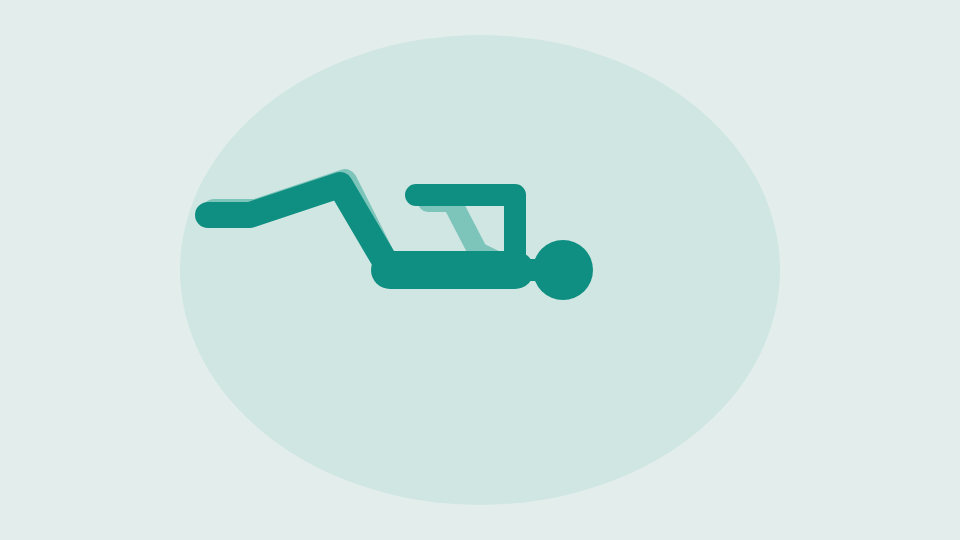
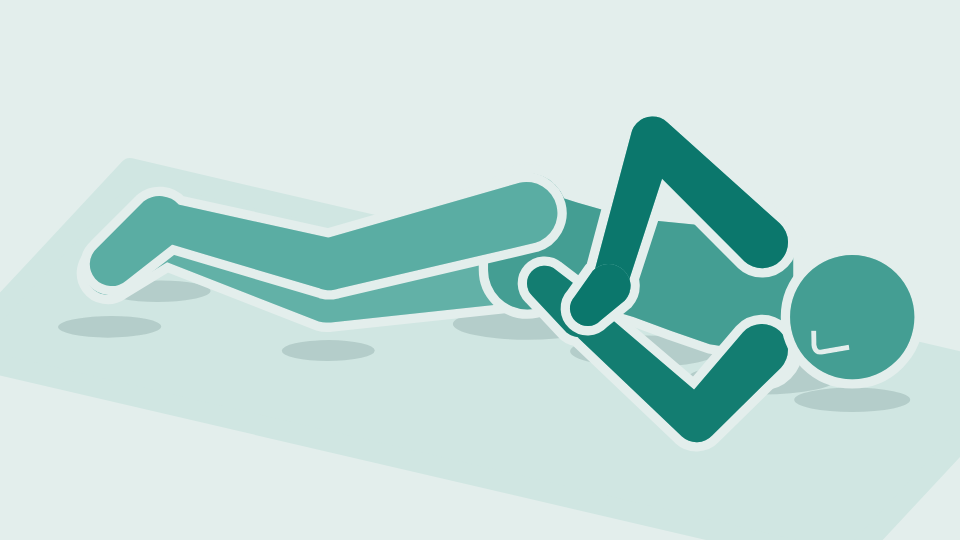
feat: add Sleeper Stretch exercise with 3D animation and update related components

Changed region(s): [[0.0625, 0.2074, 0.9688, 0.8296], [0.2812, 0.6222, 0.4062, 0.6815]]

diff --git a/src/data/exercise-animations-3d.ts b/src/data/exercise-animations-3d.ts
@@ -6136,3 +6136,76 @@ export const SIDE_LYING_EXTERNAL_ROTATION_3D: Clip3D = {
     { ms: 1800, pose: SIDE_ER_IN },
   ],
 };
+
+// --- Sleeper stretch: lying on the left side, the bottom arm out in front at shoulder height with the elbow at 90° and the forearm up, the top hand presses the forearm down toward the floor ---
+
+/** How far the top hand presses the bottom forearm down from pointing at the ceiling, toward the feet. */
+const SLEEPER_PRESS = 55;
+/** How far along the bottom forearm from the elbow the top hand presses: at the wrist. */
+const SLEEPER_ALONG = 1;
+/** How far the middle of the top hand is from the middle of the bottom forearm: the forearm's half thickness and the hand's. */
+const SLEEPER_HAND_OFF = 15;
+/** How far from the wrist the middle of the hand is. */
+const SLEEPER_HAND_MIDDLE = 13;
+
+const sleeperBody = (press: number): Pose3 => ({
+  pelvis: [0, BOOK_SPINE_Y, 0],
+  tilt: -90,
+  // The bottom arm lies on the floor straight out in front at shoulder height, the forearm up at
+  // the ceiling to start and pressed down toward the feet, turning around the upper arm.
+  leftArm: { flex: 90, elbow: 90, rotate: -90 - press },
+  // Knees bent a little and stacked, the top one resting on the bottom one.
+  rightLeg: { flex: 40, knee: 50, abduct: -8 },
+  leftLeg: { flex: 40, knee: 50 },
+});
+
+/**
+ * The bottom forearm pressed this far (0 to 1) down toward the feet by the top hand. The hand lies
+ * across the forearm near the wrist, on the side toward the head, palm against it and fingers
+ * pointing away from the body, and goes round with it.
+ */
+const sleeperAt = (t: number): Pose3 => {
+  const body = sleeperBody(SLEEPER_PRESS * t);
+  const [, elbow, wrist] = solvePose(body).leftArm;
+  const forearm = unit3(sub3(wrist, elbow));
+  // Square to the forearm, in the way it turns: toward the feet as it's pressed down.
+  const pushing = unit3(cross3([1, 0, 0], forearm));
+  const contact = along3(along3(elbow, forearm, SLEEPER_ALONG * SKELETON.forearm), pushing, -SLEEPER_HAND_OFF);
+  return {
+    ...body,
+    pins: { rightHand: { at: along3(contact, [-1, 0, 0], SLEEPER_HAND_MIDDLE), toward: [1, 0, 0], pole: [-0.3, 1, 0.5] } },
+  };
+};
+const SLEEPER_UP = sleeperAt(0);
+const SLEEPER_PRESSED = sleeperAt(1);
+/**
+ * The pressing hand goes round with the forearm, so the press takes this many steps rather than one
+ * straight move. Each step goes at an even speed, so it takes this many for the press to ease in and
+ * out smoothly: with 8, the top arm jerked from one speed to the next at each step.
+ */
+const SLEEPER_STEPS = 24;
+
+export const SLEEPER_STRETCH_3D: Clip3D = {
+  view: '3d',
+  // From in front and a little toward the head, above: the forearm turns around the upper arm, which
+  // points out in front of the body, so from in front its swing from the ceiling down toward the feet
+  // is across the screen, and from a little toward the head the upper arm shows its length too,
+  // coming out from the shoulder. Straight from the front it pointed at the camera and was lost, and
+  // the arm looked like a stick standing on the floor.
+  camera: { yaw: 115, pitch: 30 },
+  highlight: ['leftArm'],
+  // The top hand stays on the bottom wrist.
+  holds: [{ hand: 'rightHand', limb: 'leftArm' }],
+  // The bottom forearm stands out in front, nearer the camera than the top arm reaching to it, but
+  // the two are near the same depth and swapped partway through the press.
+  behind: [['rightArm', 'leftArm']],
+  // Pressed down.
+  stillFrame: 1 + SLEEPER_STEPS,
+  keyframes: [
+    { ms: 0, pose: SLEEPER_UP },
+    { ms: 600, pose: SLEEPER_UP },
+    ...alongArc(1800, SLEEPER_STEPS, sleeperAt),
+    { ms: 3500, pose: SLEEPER_PRESSED },
+    ...alongArc(1800, SLEEPER_STEPS, (t) => sleeperAt(1 - t)),
+  ],
+};

diff --git a/src/lib/rig3d.test.ts b/src/lib/rig3d.test.ts
@@ -44,6 +44,7 @@ import {
   SHOULDER_EXTERNAL_ROTATION_3D,
   SHOULDER_PASS_THROUGHS_3D,
   SIDE_LYING_EXTERNAL_ROTATION_3D,
+  SLEEPER_STRETCH_3D,
   SIT_AND_REACH_3D,
   SQUAT_TO_STAND_3D,
   STRAIGHT_LEG_RAISE_3D,
@@ -1789,6 +1790,40 @@ describe('3D clips', () => {
       const nearest = Math.min(...[start.rightArm, start.leftArm].map((arm) => Math.hypot(x - hand(arm)[0], y - hand(arm)[1])));
       expect(nearest).toBeGreaterThan(10);
     }
+  });
+
+  it('presses the bottom forearm down from the ceiling toward the feet with the top hand, the arm out in front at shoulder height and the elbow at 90°, in the sleeper stretch', () => {
+    const clip = SLEEPER_STRETCH_3D;
+    const skeletons = samples(clip).map(solvePose);
+    const start = skeletons[0];
+    for (const s of skeletons) {
+      // Only the arms move: the body and legs stay put, and the bottom upper arm lies still on the
+      // floor straight out in front at shoulder height, the elbow at 90°.
+      expect(distance(s.spine[0], start.spine[0])).toBeCloseTo(0);
+      expect(distance(s.head, start.head)).toBeCloseTo(0);
+      for (const [now, first] of [[s.rightLeg[2], start.rightLeg[2]], [s.leftLeg[2], start.leftLeg[2]], [s.leftArm[1], start.leftArm[1]]] as const) {
+        expect(distance(now, first)).toBeCloseTo(0);
+      }
+      const [shoulder, elbow, wrist, hand] = s.leftArm;
+      expect(elbow[1]).toBeCloseTo(shoulder[1]);
+      expect(elbow[0] - shoulder[0]).toBeCloseTo(SKELETON.upperArm, 0);
+      expect(angleAt(shoulder, elbow, wrist)).toBeCloseTo(90, 0);
+      // The top hand stays on the bottom wrist, pressing from the head's side, and never goes into it.
+      const top = s.rightArm;
+      const middle: Vec3 = [(top[2][0] + top[3][0]) / 2, (top[2][1] + top[3][1]) / 2, (top[2][2] + top[3][2]) / 2];
+      expect(distance(middle, wrist)).toBeLessThan(20);
+      expect(distanceToSegment(middle, elbow, hand)).toBeGreaterThan(12);
+      expect(middle[2]).toBeLessThan(wrist[2]);
+    }
+    // To start the forearm points at the ceiling, and pressed it's well down toward the feet.
+    const fromUp = (s: Skeleton) => angleAt([s.leftArm[1][0], s.leftArm[1][1] + 1, s.leftArm[1][2]], s.leftArm[1], s.leftArm[2]);
+    expect(fromUp(start)).toBeLessThan(1);
+    const pressed = solvePose(clip.keyframes[clip.stillFrame!].pose);
+    expect(fromUp(pressed)).toBeGreaterThan(45);
+    expect(pressed.leftArm[2][2]).toBeGreaterThan(pressed.leftArm[1][2] + 40);
+    expect(pressed.leftArm[2][1]).toBeGreaterThan(pressed.leftArm[1][1]);
+    // The bottom arm stays in front of the top one reaching to it, its hand drawn over it.
+    expect(new Set(drawOrders(clip)).size).toBe(1);
   });
 
   it('turns the top forearm up from the belly toward the ceiling, the elbow tucked against the side at 90°, in side-lying external rotation', () => {

diff --git a/src/data/exercises.ts b/src/data/exercises.ts
@@ -68,6 +68,7 @@ import {
   SEATED_STRADDLE_SIDE_BEND_3D,
   SHOULDER_PASS_THROUGHS_3D,
   SIDE_LYING_EXTERNAL_ROTATION_3D,
+  SLEEPER_STRETCH_3D,
   SQUAT_TO_STAND_3D,
   STANDING_FORWARD_FOLD_3D,
   THREE_LEGGED_DOWNWARD_FACING_DOG_3D,
@@ -75,7 +76,6 @@ import {
 } from './exercise-animations-3d';
 
 import {
-  SLEEPER_STRETCH,
   THE_SAGITTARIUS,
   THREAD_THE_NEEDLE,
   WINDSHIELD_WIPERS_WITH_KNEE_LIFT,
@@ -667,7 +667,7 @@ const ALL_EXERCISES: Exercise[] = [
       'Hold without forcing it, then switch sides',
     ],
     photo: require('@/assets/images/exercises/sleeper-stretch.png'),
-    animation: SLEEPER_STRETCH,
+    animation: SLEEPER_STRETCH_3D,
     twoSided: true,
   },
   {

diff --git a/README.md b/README.md
@@ -209,16 +209,16 @@ Moved to the new engine:
 | Seated hip internal rotation | Library | `SEATED_HIP_INTERNAL_ROTATION_3D` |
 | Shoulder pass-throughs | Library | `SHOULDER_PASS_THROUGHS_3D` |
 | Side-lying external rotation | Library | `SIDE_LYING_EXTERNAL_ROTATION_3D` |
+| Sleeper stretch | Library | `SLEEPER_STRETCH_3D` |
 
 Still on the old engine (clip names in `exercise-animations.ts`). Where a clip needs something the new engine doesn't have yet, it's noted.
 
-All ten flexibility tests are on the new engine. The last six to move (knee to wall, the two seated hip rotations, sit and reach, knee to chest and straight leg raise) haven't been checked on a device yet, so their old clips are still in `exercise-animations.ts`; delete them once they have. The same goes for the three 90 to 90 clips in the library (`NINETY_TO_NINETY_ROTATIONS` has to stay either way: windshield wipers with knee lift is built on it), and for the two pancake clips (`PANCAKE_UP` has to stay either way: the seated straddle side bend is built on it), and for the active straight leg raise, ankle mobilization, the behind the back chest opener, back lying reverse pigeon, belly down foot splay, the five squats (bottom squat, bottom squat rotation, squat to stand, Cossack squat and resting Cossack squat), Blackburn, butterfly, cobra to prayer, downward facing dog, prayer pose, puppy pose, lying knee hug, lying hamstring stretch, seated pike stretch, three legged downward facing dog, standing forward fold, kneeling wrist stretch, floor angels, reverse tabletop, knight stretch, horse stance, the lying windshield wiper hold, frog stretch, frog rocks, knight to hamstring, couch stretch, pyramid stretch, wrist rocks, elephant walk, the seated straddle side bend, seated shoulder extension, the half kneeling frog stretch, the neck side stretch, the cross-body shoulder stretch, the overhead triceps stretch, cow face arms, the pigeon stretch, hip circles, the Breakdancer, scap mobilization, the lizard pose, the figure four stretch, the two manual forearm stretches, downward facing dog to cobra, Cuban rotation, the half spinal twist, the half-twisted lizard, open book, inchworm, the pec stretch on the ground, reverse clamshells, reverse scorpion, seated hip internal rotation, shoulder pass-throughs, side-lying external rotation and finger tendon glides (`FINGER_TENDON_GLIDES` is still checked by `figure-rig.test.ts` and `exercise-video.test.tsx` until then).
+All ten flexibility tests are on the new engine. The last six to move (knee to wall, the two seated hip rotations, sit and reach, knee to chest and straight leg raise) haven't been checked on a device yet, so their old clips are still in `exercise-animations.ts`; delete them once they have. The same goes for the three 90 to 90 clips in the library (`NINETY_TO_NINETY_ROTATIONS` has to stay either way: windshield wipers with knee lift is built on it), and for the two pancake clips (`PANCAKE_UP` has to stay either way: the seated straddle side bend is built on it), and for the active straight leg raise, ankle mobilization, the behind the back chest opener, back lying reverse pigeon, belly down foot splay, the five squats (bottom squat, bottom squat rotation, squat to stand, Cossack squat and resting Cossack squat), Blackburn, butterfly, cobra to prayer, downward facing dog, prayer pose, puppy pose, lying knee hug, lying hamstring stretch, seated pike stretch, three legged downward facing dog, standing forward fold, kneeling wrist stretch, floor angels, reverse tabletop, knight stretch, horse stance, the lying windshield wiper hold, frog stretch, frog rocks, knight to hamstring, couch stretch, pyramid stretch, wrist rocks, elephant walk, the seated straddle side bend, seated shoulder extension, the half kneeling frog stretch, the neck side stretch, the cross-body shoulder stretch, the overhead triceps stretch, cow face arms, the pigeon stretch, hip circles, the Breakdancer, scap mobilization, the lizard pose, the figure four stretch, the two manual forearm stretches, downward facing dog to cobra, Cuban rotation, the half spinal twist, the half-twisted lizard, open book, inchworm, the pec stretch on the ground, reverse clamshells, reverse scorpion, seated hip internal rotation, shoulder pass-throughs, side-lying external rotation, the sleeper stretch and finger tendon glides (`FINGER_TENDON_GLIDES` is still checked by `figure-rig.test.ts` and `exercise-video.test.tsx` until then).
 
 Library (`src/data/exercises.ts`):
 
 | Exercise | Clip | Needs |
 |---|---|---|
-| Sleeper stretch | `SLEEPER_STRETCH` | |
 | The Sagittarius | `THE_SAGITTARIUS` | |
 | Thread the needle | `THREAD_THE_NEEDLE` | limbs split in front of and behind the torso |
 | Windshield wipers with knee lift | `WINDSHIELD_WIPERS_WITH_KNEE_LIFT` | |
